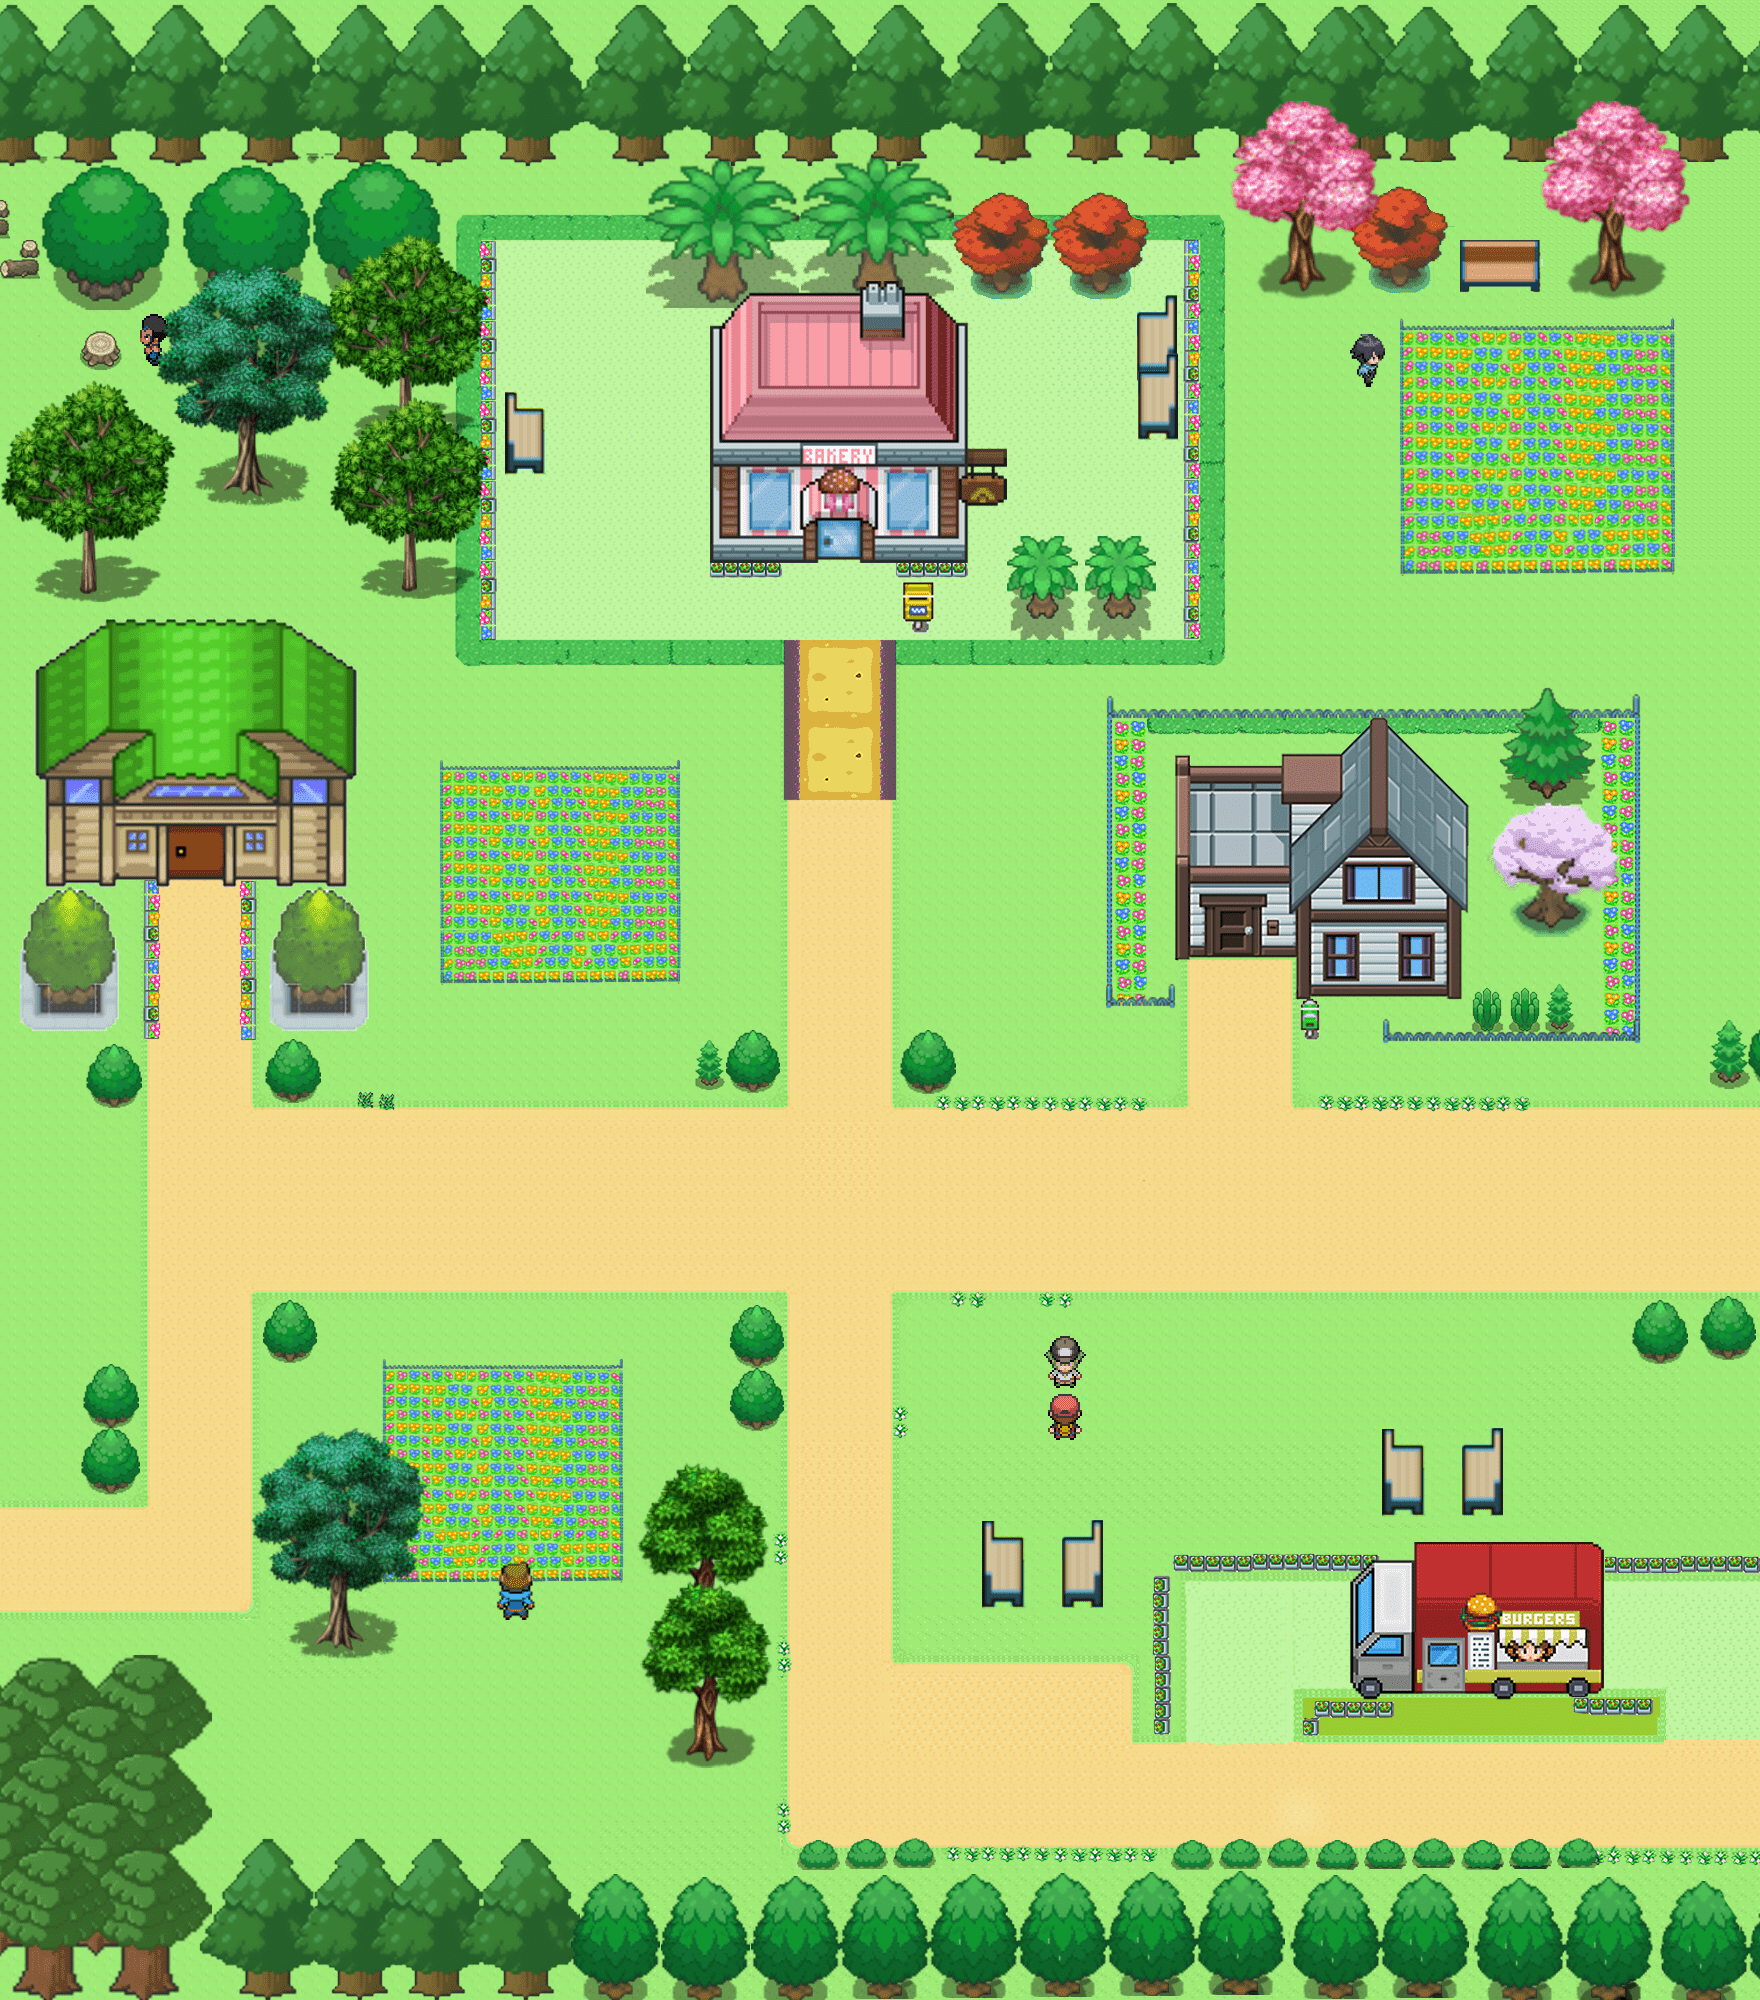
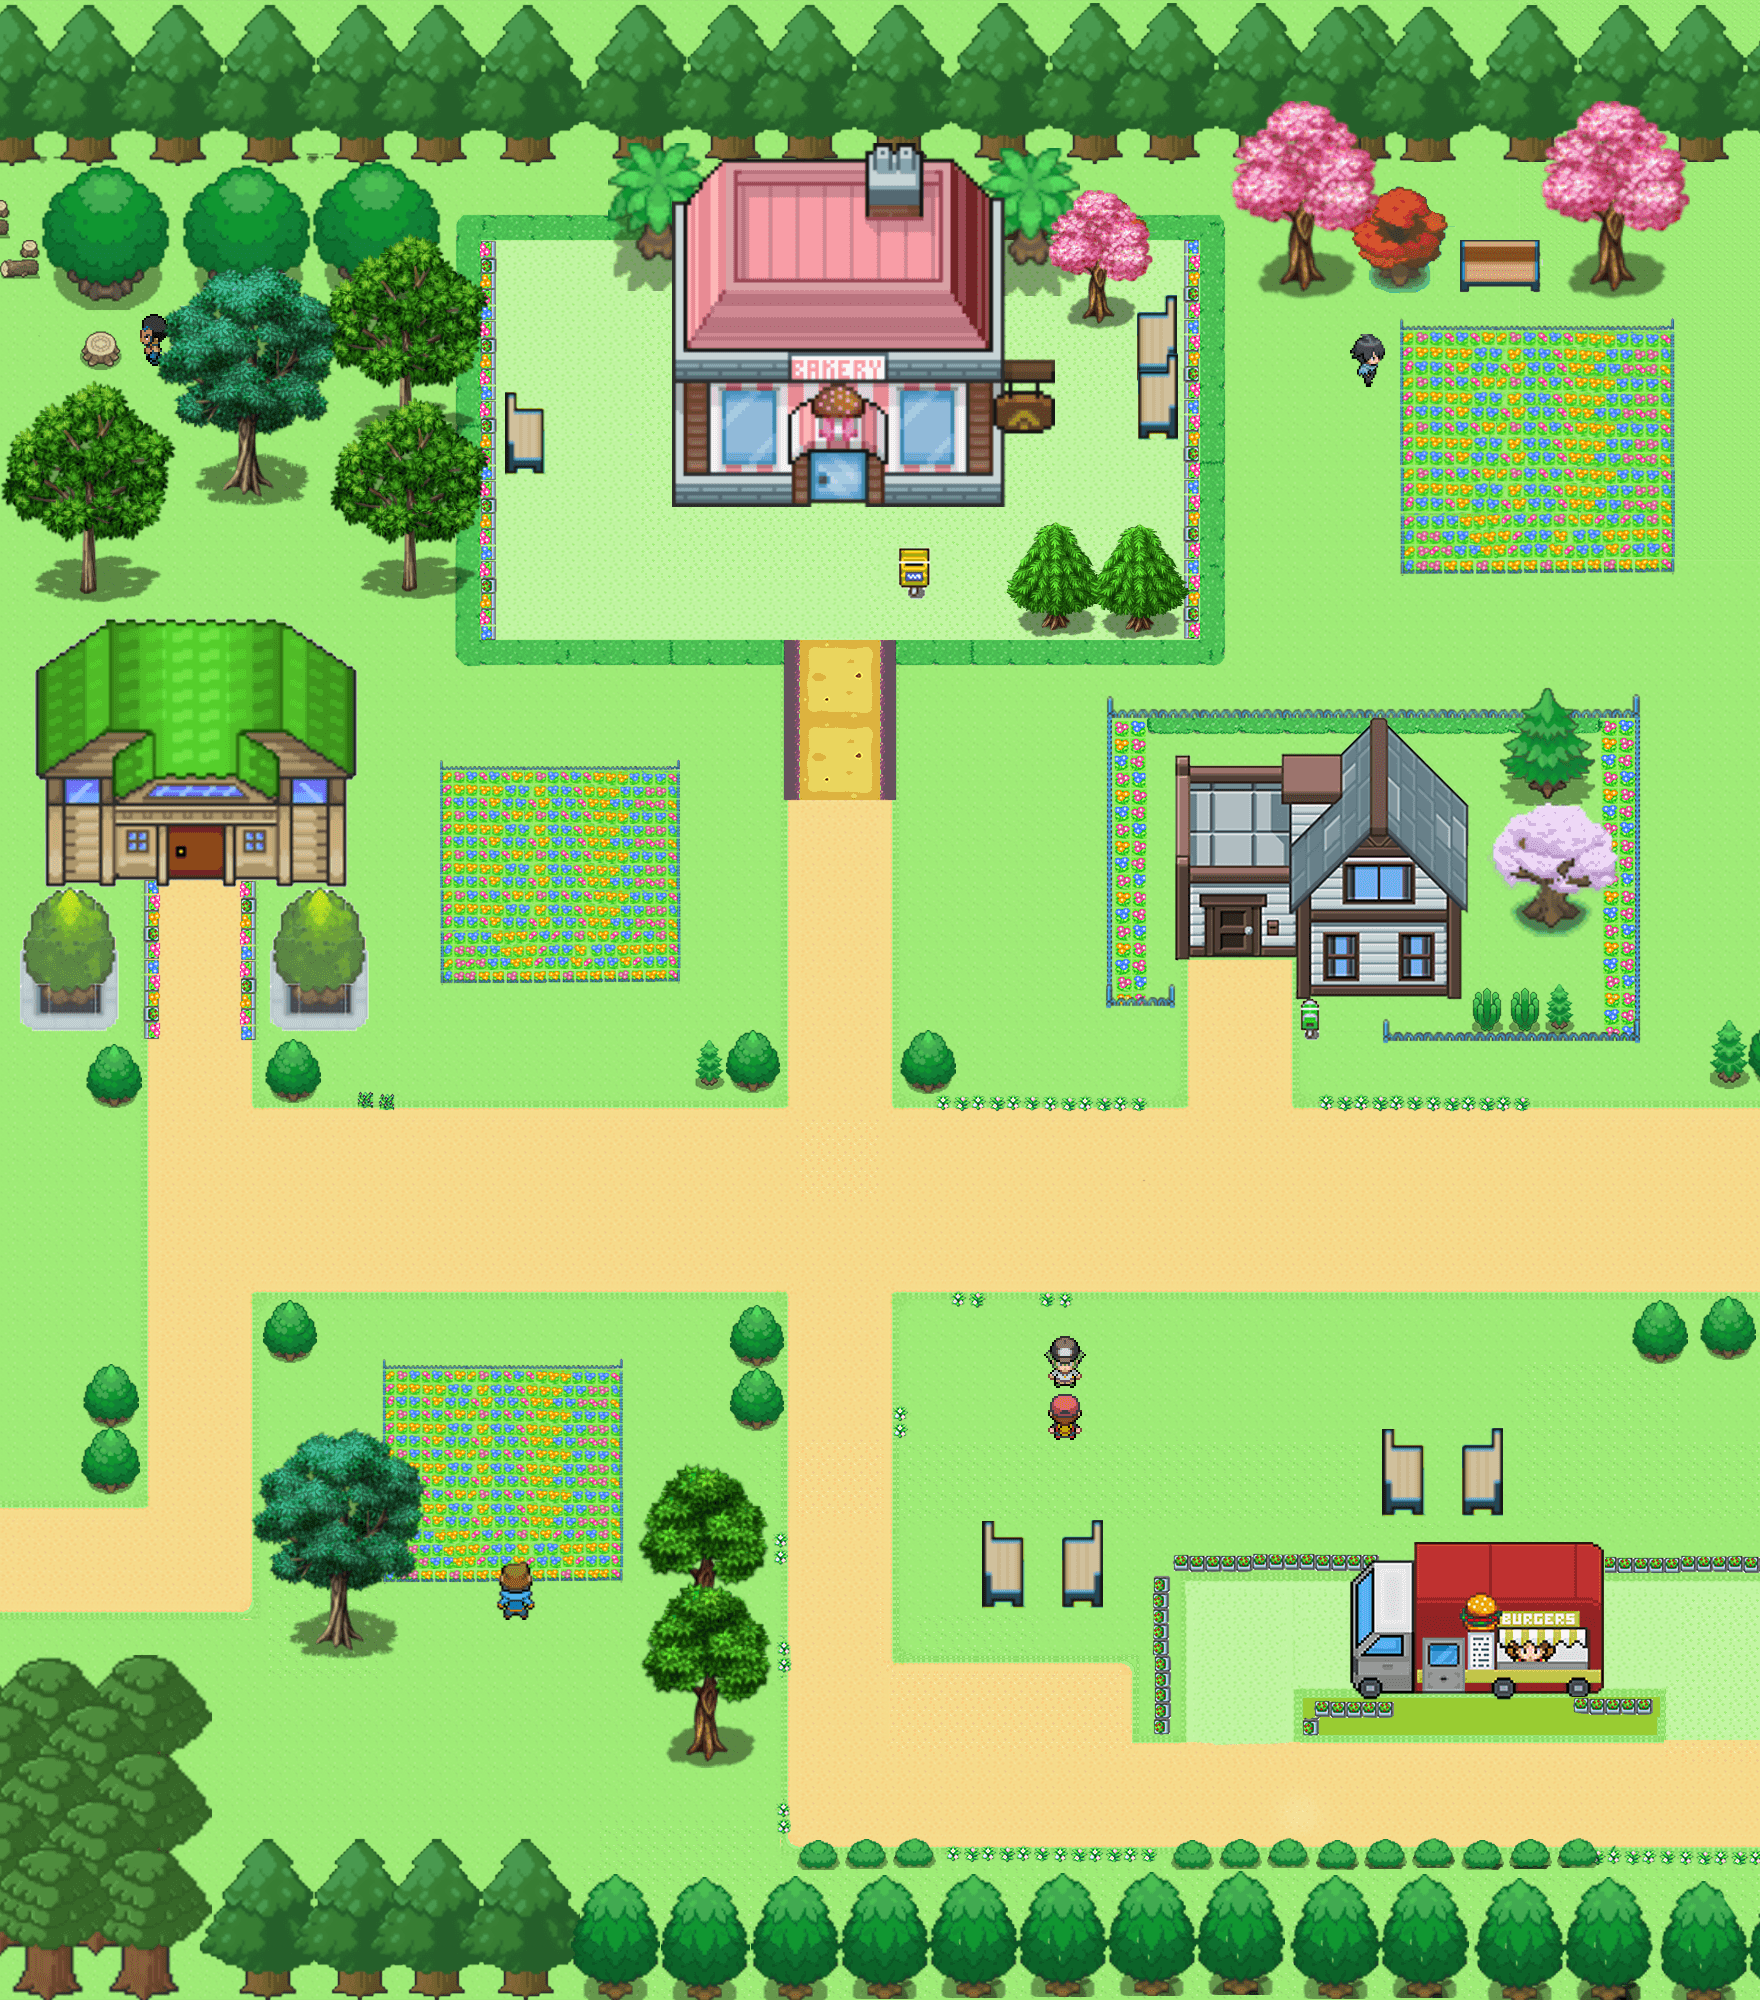
Change map tp adjust new portal changes

diff --git a/src/data/Maps/town_center.js b/src/data/Maps/town_center.js
@@ -7,9 +7,9 @@ export const townCenter = {
         [  10,  10,  10,  10,  10,  10,  10,  10,  10,  10,  10,  10,  10,  10,  10,  10,  10,  10,  10,  10,  10,  10,],
         [  10,  10,  10,  10,  10,  10,  10,  10,  10,  10,  10,  10,  10,  10,  10,  10,  10,  10,  10,  10,  10,  10,],
         [  10,  10,  10,  10,  10,  10,   0,   0,  10,  10,  10,  10,  10,  10,  10,  10,  10,  10,  10,  10,  10,  10,],
-        [  10,  10,  10,  10,  10,  10,   0,   0,   0,  10,  10,  10,  10,  10,  10,  10,  10,  10,  10,  10,  10,  10,],
-        [  10,  10,  10,  10,  10,  10,  10,   0,   0,  10,  10,  10,  10,  10,  10,  10,  10,  10,  10,  10,  10,  10,],
-        [  10,  10,  10,  10,  10,  10,   0,   0,   0,  10,  10,  10,  10,  10,  10,  10,  10,  10,  10,  10,  10,  10,],
+        [  10,  10,  10,  10,  10,  10,   0,   0,  10,  10,  10,  10,  10,  10,  10,  10,  10,  10,  10,  10,  10,  10,],
+        [  10,  10,  10,  10,  10,  10,  10,   0,  10,  10,  10,  10,  10,  10,  10,  10,  10,  10,  10,  10,  10,  10,],
+        [  10,  10,  10,  10,  10,  10,   0,   0,   0,   0,   0,  10,  10,  10,  10,  10,  10,  10,  10,  10,  10,  10,],
         [  10,  10,  10,  10,  10,  10,   0,   0,   0,   0,   0,  10,  10,  10,  10,  10,  10,  10,  10,  10,  10,  10,],
         [  10,  10,  10,  10,  10,  10,  10,  10,  10,  10,   0,  10,  10,  10,  10,  10,  10,  10,  10,  10,  10,  10,],
         [  10,  10,  10,  10,  10,  10,  10,  10,  10,  10,   0,  10,  10,  10,  10,  10,  10,  10,  10,  10,  10,  10,],

diff --git a/src/data/Levels/1/_town_center.js b/src/data/Levels/1/_town_center.js
@@ -155,7 +155,7 @@ export const _townCenter = {
             target: _home,
         },
         {
-            position: [7, 10],
+            position: [6, 10],
             type: PORTALS[0],
             rotate:270,
             target: _bakery,
